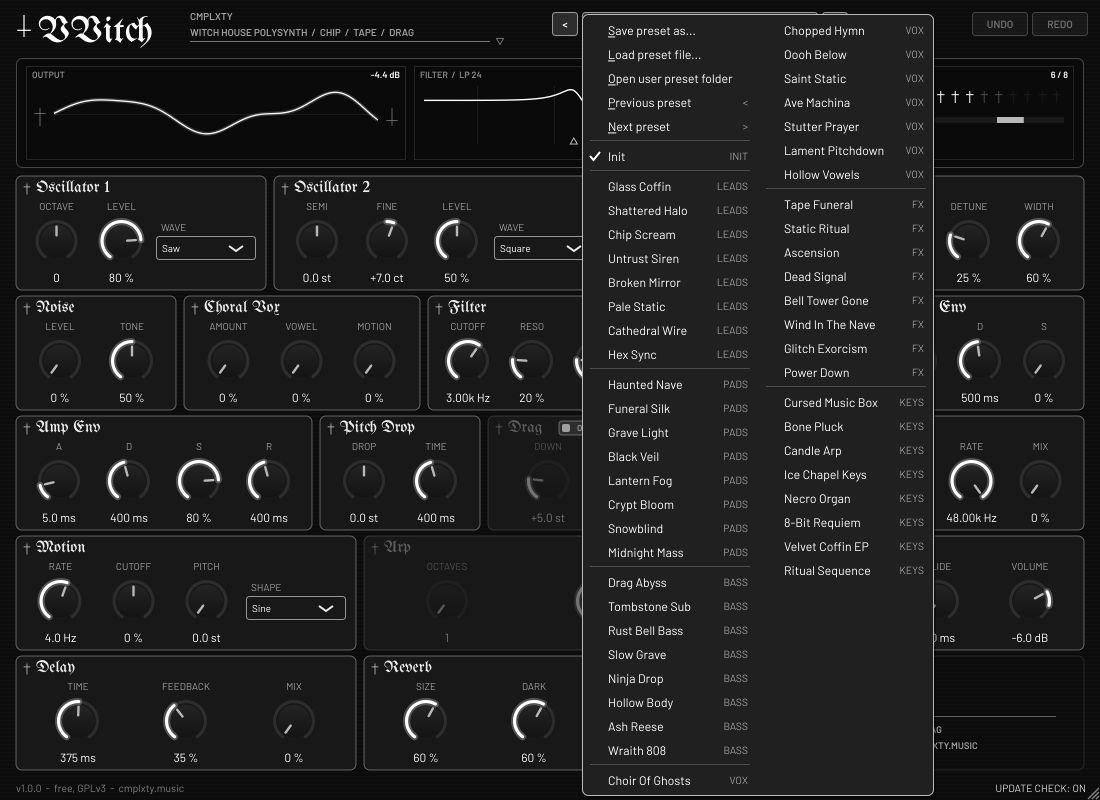
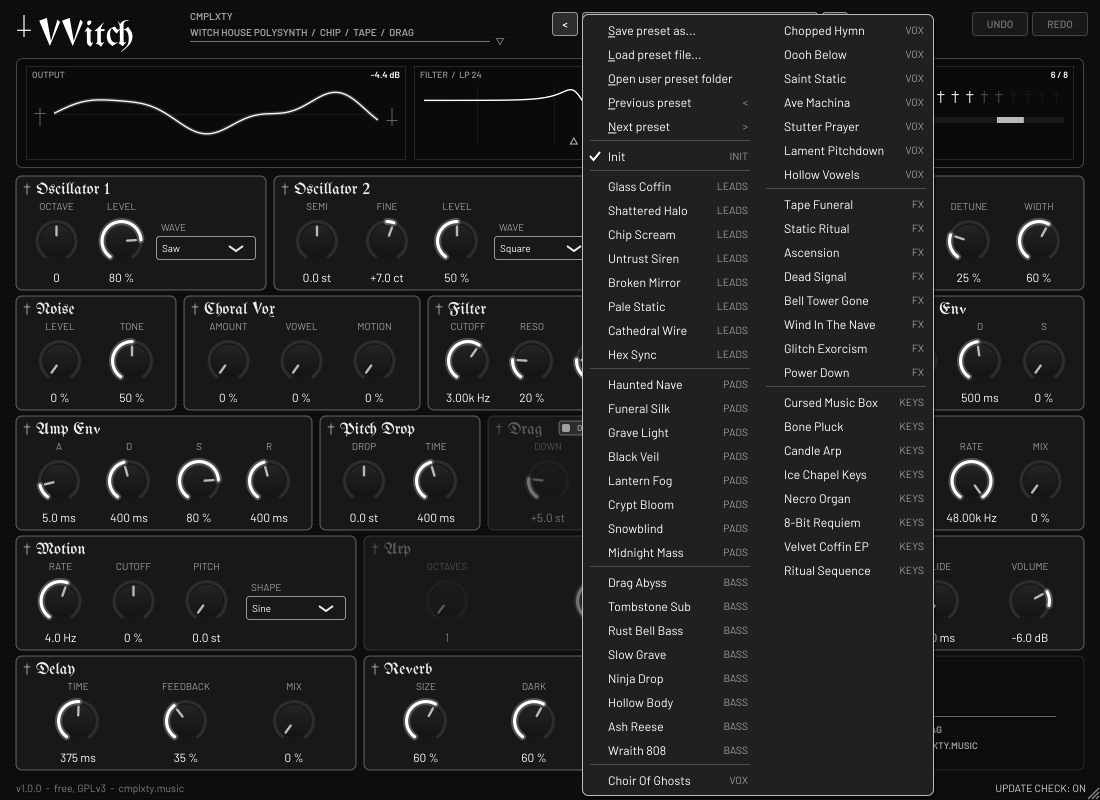
VVITCH: draw the blackletter V/v as sharp custom glyphs so the wordmark reads VVitch, not BBitch (title, section headers, emblem); refresh screenshots

diff --git a/vvitch/src/PluginEditor.cpp b/vvitch/src/PluginEditor.cpp
@@ -50,6 +50,57 @@ juce::Typeface::Ptr gothTypeface()
     static const juce::Typeface::Ptr t = juce::Typeface::createSystemTypefaceFor (BinaryData::UnifrakturMaguntiaBook_ttf, (size_t) BinaryData::UnifrakturMaguntiaBook_ttfSize);
     return t;
 }
+namespace
+{
+    float gothRunWidth (const juce::String& run, const juce::Font& f) { return juce::GlyphArrangement::getStringWidth (f, run); }
+    float vWidth (float h, bool upper) { return h * (upper ? 0.56f : 0.40f); }
+    // broad-nib V: heavy left stroke, hairline right stroke, sharp point on the baseline, angled flags at the top
+    void drawV (juce::Graphics& g, float x, float baseline, float capH, float w)
+    {
+        const float top = baseline - capH, th = w * 0.36f, hair = juce::jmax (1.2f, w * 0.12f), mid = x + w * 0.52f;
+        juce::Path p;
+        p.startNewSubPath (x + w * 0.02f, top + capH * 0.10f);       // left flag
+        p.lineTo (x + w * 0.02f + th, top);
+        p.lineTo (mid + th * 0.15f, baseline - capH * 0.18f);
+        p.lineTo (x + w - hair, top + capH * 0.06f);                   // right hairline
+        p.lineTo (x + w, top + capH * 0.06f + hair);
+        p.lineTo (mid, baseline);                                      // sharp point
+        p.closeSubPath();
+        g.fillPath (p);
+    }
+}
+float gothTextWidth (const juce::String& text, float h)
+{
+    const auto f = gothFont (h); float w = 0.0f; juce::String run;
+    for (auto c : text)
+    {
+        if (c == 'V' || c == 'v') { w += gothRunWidth (run, f) + vWidth (h, c == 'V') + h * 0.04f; run.clear(); }
+        else run << juce::String::charToString (c);
+    }
+    return w + gothRunWidth (run, f);
+}
+void drawGothText (juce::Graphics& g, const juce::String& text, juce::Rectangle<float> area, float h, juce::Justification j)
+{
+    const auto f = gothFont (h); g.setFont (f);
+    const float total = gothTextWidth (text, h);
+    float x = area.getX();
+    if (j.testFlags (juce::Justification::horizontallyCentred)) x = area.getCentreX() - total * 0.5f;
+    else if (j.testFlags (juce::Justification::right)) x = area.getRight() - total;
+    const float capH = h * 0.74f, xH = h * 0.42f;   // measured off the rendered UnifrakturMaguntia caps / x-height
+    const float baseline = std::round (area.getCentreY() + capH * 0.5f);
+    juce::String run;
+    auto flush = [&] { if (run.isEmpty()) return; g.drawSingleLineText (run, (int) std::round (x), (int) std::round (baseline)); x += gothRunWidth (run, f); run.clear(); };
+    for (auto c : text)
+    {
+        if (c == 'V' || c == 'v')
+        {
+            flush(); const bool up = c == 'V'; const float w = vWidth (h, up);
+            drawV (g, x + h * 0.02f, baseline, up ? capH : xH, w); x += w + h * 0.04f;
+        }
+        else run << juce::String::charToString (c);
+    }
+    flush();
+}
 void drawCross (juce::Graphics& g, juce::Point<float> c, float s, float th, bool inverted)
 {
     const float arm = inverted ? 0.28f : -0.28f;   // the cross bar sits a little above the centre (below when inverted)
@@ -763,8 +814,7 @@ void Panel::paint (juce::Graphics& g)
     g.setColour (kDim); g.setFont (uiFont (10.5f, true));
     g.drawText ("CMPLXTY", 190, 10, 120, 12, juce::Justification::centredLeft);
     g.setColour (kPri); drawCross (g, { 24.0f, 26.0f }, 22.0f, 1.2f, true);
-    g.setFont (gothFont (38.0f));
-    g.drawText (sp.title, 38, 12, 300, 40, juce::Justification::centredLeft);
+    drawGothText (g, sp.title, { 38.0f, 12.0f, 300.0f, 40.0f }, 38.0f, juce::Justification::centredLeft);
     g.setColour (kSec.withAlpha (0.6f)); g.fillRect (190.0f, 41.0f, 300.0f, 1.0f);
     drawTriangle (g, { 500.0f, 41.5f }, 7.0f, 1.0f, true);
     g.setColour (kDim); g.setFont (uiFont (10.5f, true));
@@ -776,8 +826,7 @@ void Panel::paint (juce::Graphics& g)
         g.setColour (kPanel);          g.fillRoundedRectangle (r.toFloat(), 6.0f);
         g.setColour (kPri.withAlpha (on ? 0.35f : 0.15f)); g.drawRoundedRectangle (r.toFloat(), 6.0f, 1.0f);
         g.setColour (kSec.withAlpha (on ? 0.85f : 0.35f)); drawCross (g, { r.getX() + 11.0f, r.getY() + 13.0f }, 11.0f, 1.0f);
-        g.setColour (on ? kPri.withAlpha (0.92f) : kDim.withAlpha (0.5f)); g.setFont (gothFont (17.0f));
-        g.drawText (s->spec->title, r.getX() + 20, r.getY() + 2, r.getWidth() - 80, 20, juce::Justification::centredLeft);
+        g.setColour (on ? kPri.withAlpha (0.92f) : kDim.withAlpha (0.5f)); drawGothText (g, s->spec->title, juce::Rectangle<int> (r.getX() + 20, r.getY() + 2, r.getWidth() - 80, 20).toFloat(), 17.0f, juce::Justification::centredLeft);
     }
 
     // emblem in the free corner: a thin downward triangle around a cross, flanked by hairlines and the motto
@@ -787,8 +836,7 @@ void Panel::paint (juce::Graphics& g)
         const juce::Point<float> c (em.getX() + 64.0f, em.getCentreY());
         g.setColour (kSec.withAlpha (0.8f)); drawTriangle (g, c.translated (0.0f, -6.0f), 74.0f, 1.0f, true);
         g.setColour (kPri); drawCross (g, c.translated (0.0f, -12.0f), 34.0f, 1.2f);
-        g.setColour (kPri.withAlpha (0.9f)); g.setFont (gothFont (26.0f));
-        g.drawText ("Vvitch", (int) em.getX() + 124, (int) em.getY() + 22, 240, 34, juce::Justification::centredLeft);
+        g.setColour (kPri.withAlpha (0.9f)); drawGothText (g, "VVitch", { em.getX() + 124.0f, em.getY() + 22.0f, 240.0f, 34.0f }, 26.0f, juce::Justification::centredLeft);
         g.setColour (kSec.withAlpha (0.5f)); g.fillRect (em.getX() + 124.0f, em.getY() + 60.0f, 220.0f, 1.0f);
         g.setColour (kDim); g.setFont (uiFont (10.0f, true));
         g.drawText ("GLASS  /  HAUNT  /  DRAG", (int) em.getX() + 124, (int) em.getY() + 66, 240, 14, juce::Justification::centredLeft);

diff --git a/vvitch/src/PluginEditor.h b/vvitch/src/PluginEditor.h
@@ -16,6 +16,10 @@ juce::Typeface::Ptr uiTypeface (bool bold);
 inline juce::Font uiFont (float h, bool bold = false) { return juce::Font (juce::FontOptions (uiTypeface (bold)).withHeight (h * 1.14f)); }
 juce::Typeface::Ptr gothTypeface();   // UnifrakturMaguntia (OFL): title and section headers only
 inline juce::Font gothFont (float h) { return juce::Font (juce::FontOptions (gothTypeface()).withHeight (h)); }
+// Blackletter text with every V/v replaced by a drawn, sharp V (UnifrakturMaguntia's V reads as B).
+// Use this instead of drawText for anything set in gothFont.
+void drawGothText (juce::Graphics&, const juce::String&, juce::Rectangle<float> area, float height, juce::Justification);
+float gothTextWidth (const juce::String&, float height);
 // thin motifs: a latin cross (optionally inverted) and an outlined triangle (pointing down when `down`)
 void drawCross (juce::Graphics&, juce::Point<float> centre, float size, float thickness, bool inverted = false);
 void drawTriangle (juce::Graphics&, juce::Point<float> centre, float size, float thickness, bool down = false);
